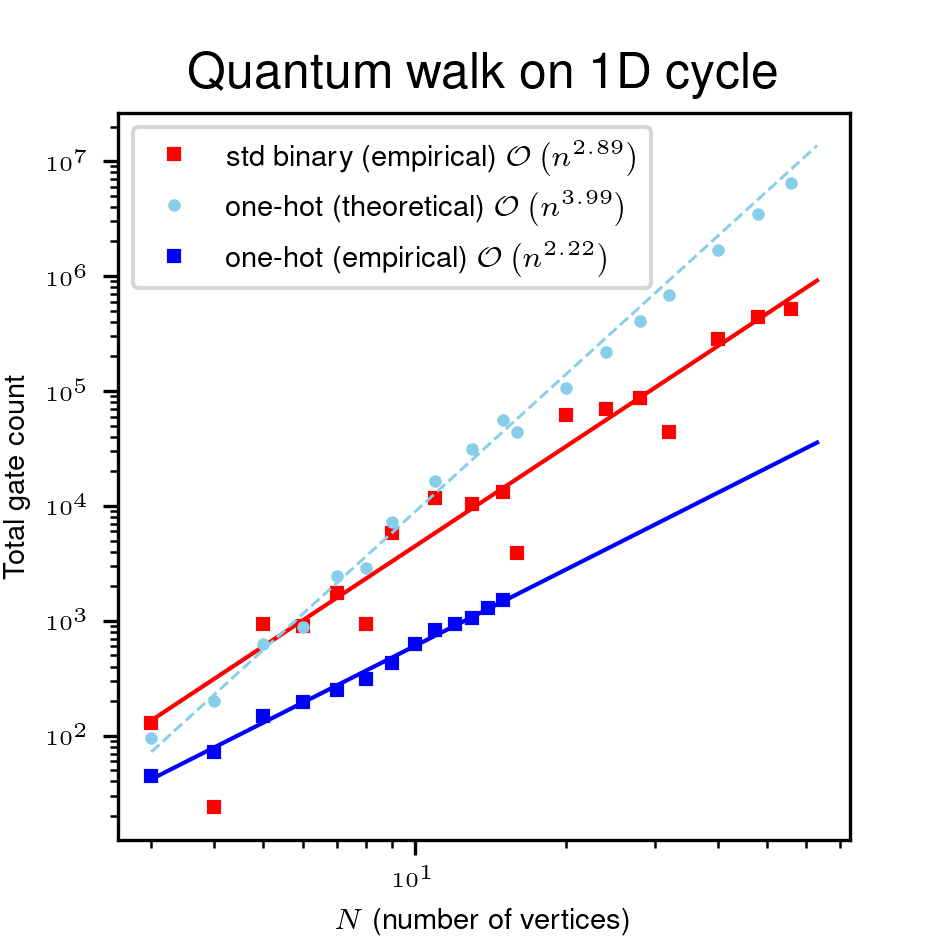
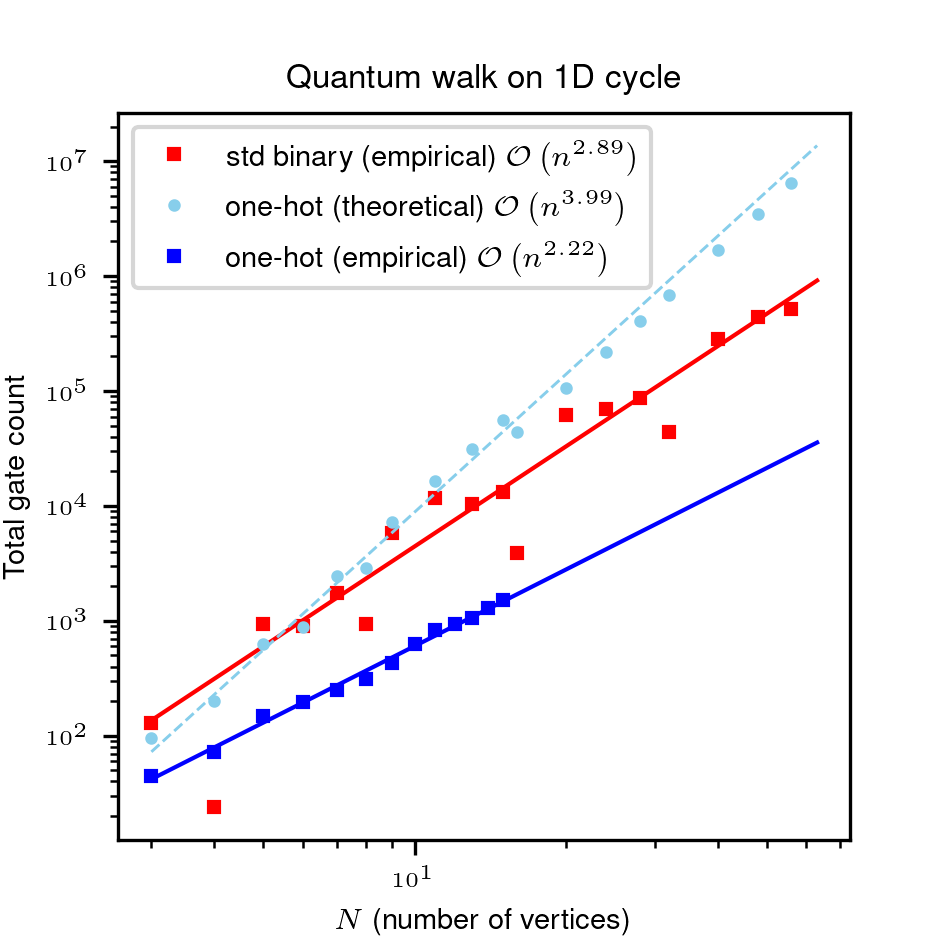
change title font size

Changed region(s): [[0.1843, 0.0307, 0.8294, 0.0922]]

diff --git a/plot_1d_chain.py b/plot_1d_chain.py
@@ -84,7 +84,7 @@ plt.plot(N_vals_one_hot, y_data_one_hot, 's', color="blue", label=fr"one-hot (em
 plt.plot(N_vals_binary, np.exp(p_one_hot[1]) * N_vals_binary **(p_one_hot[0]), "-", color="blue", linewidth=1)
 print(f"one-hot (empirical) scaling: {p_one_hot[0]}")
 
-plt.title("Quantum walk on 1D chain")
+plt.title("Quantum walk on 1D chain", fontsize=TITLE_FONT)
 plt.xscale('log')
 plt.yscale('log')
 plt.legend(loc='upper left', fontsize=LEGEND_FONT, frameon=True, facecolor='white')

diff --git a/plot_1d_cycle.py b/plot_1d_cycle.py
@@ -84,7 +84,7 @@ plt.plot(N_vals_one_hot, y_data_one_hot, 's', color="blue", label=fr"one-hot (em
 plt.plot(N_vals_binary, np.exp(p_one_hot[1]) * N_vals_binary **(p_one_hot[0]), "-", color="blue", linewidth=1)
 print(f"one-hot (empirical) scaling: {p_one_hot[0]}")
 
-plt.title("Quantum walk on 1D cycle")
+plt.title("Quantum walk on 1D cycle", fontsize=TITLE_FONT)
 plt.xscale('log')
 plt.yscale('log')
 plt.legend(loc='upper left', fontsize=LEGEND_FONT, frameon=True, facecolor='white')
